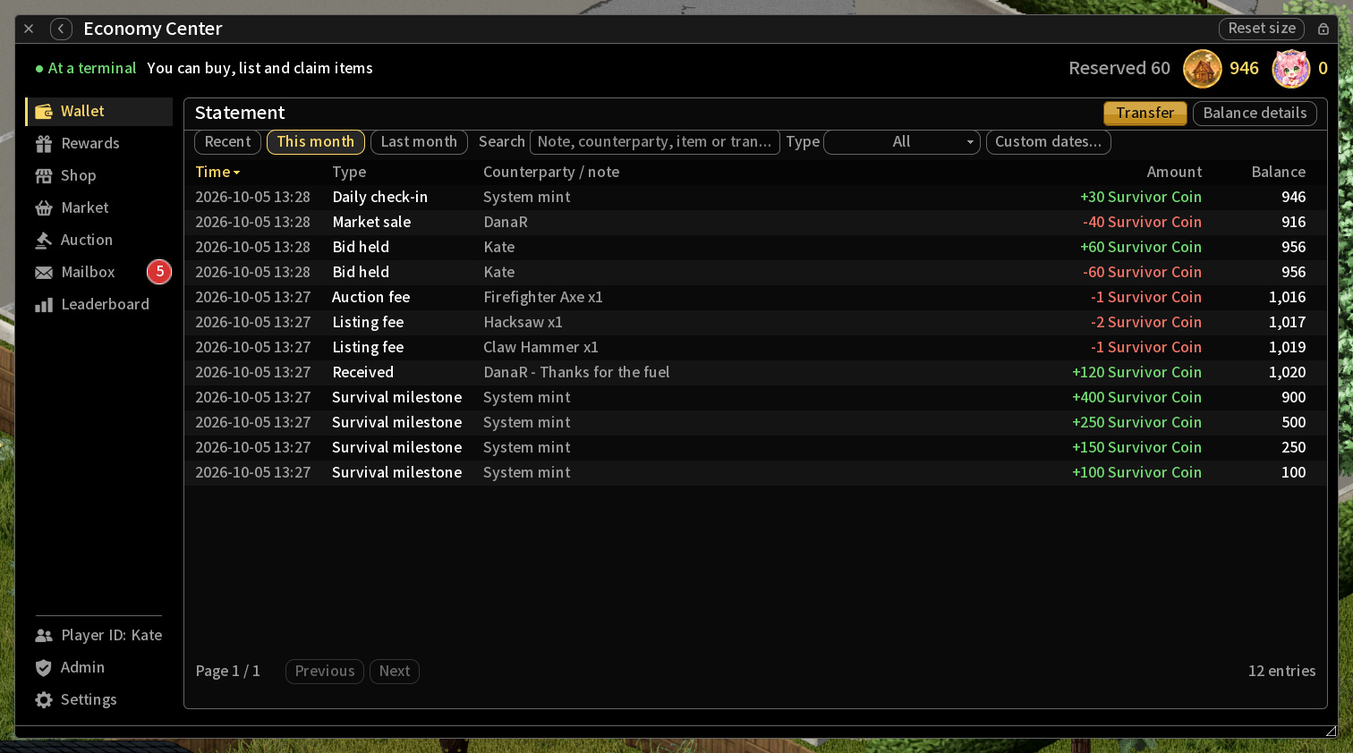
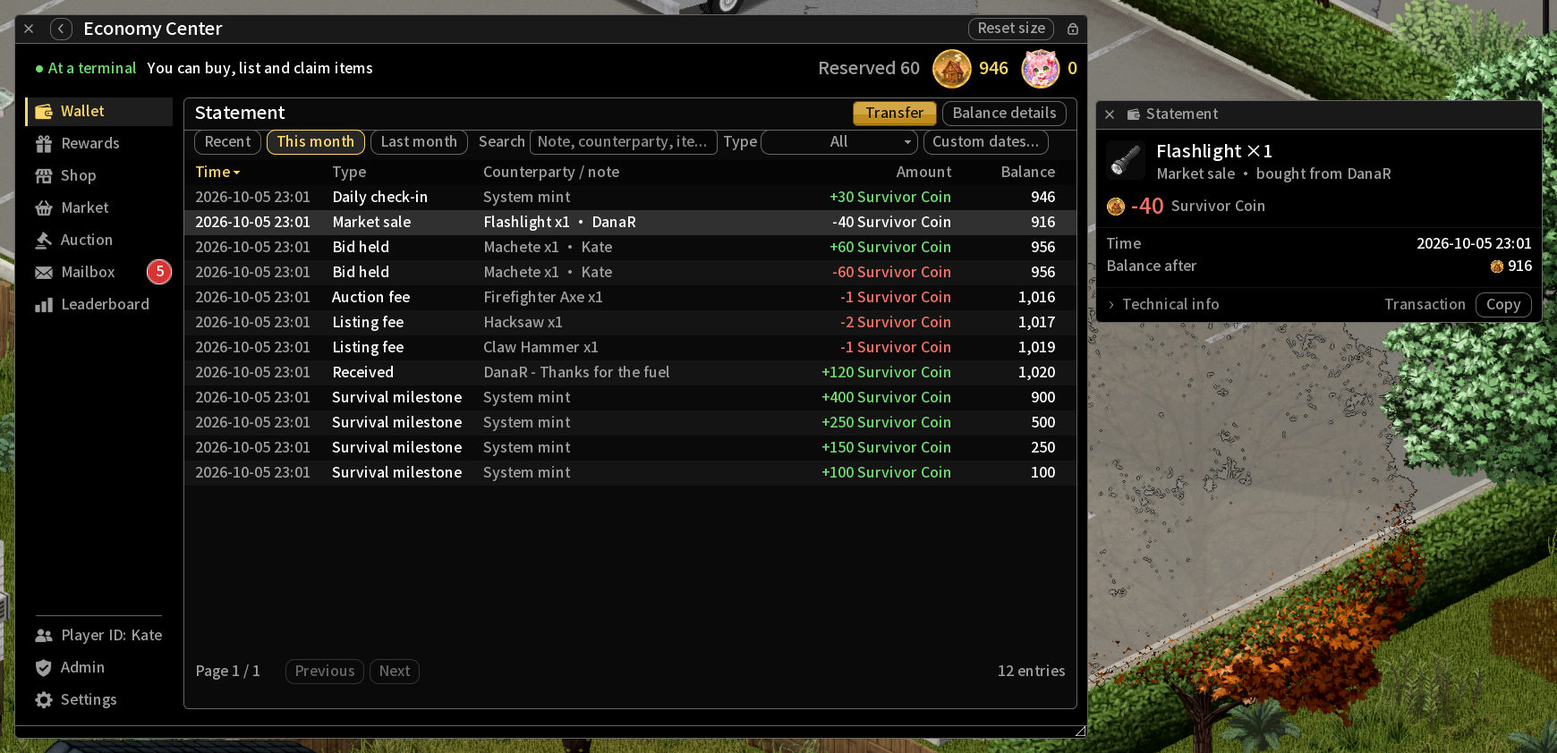
發布 42.21.0-0.10.0
本版內容：明細卡、管理台報表與總覽近 7 天、上架行情、錢包本月收支、金流合計列與金流明細卡（7e7fbce），報表座標軸刻度修正（ef25330），以及管理員進服後右鍵物品報錯、MOD 名稱檔尾逗號、換季稽核欄位翻譯三個修正（12bfb38）。

發版檔案：
- mod.info modversion 42.21.0-0.9.0 -> 42.21.0-0.10.0（versionMin 不變；新程式用到的 UI 框架 API 都在 rev 11 以內）。
- CHANGELOG [Unreleased] 歸版；STEAM_CHANGELOG.md 由 gen_steam_changelog.py 產稿後整理成 12 條玩家看得懂的重點。
- 簡介三語（繁中稿同時給簡中槽）在「主要功能」加一行管理台報表，workshop.txt 重建。
- 四篇說明串稿：玩家說明補明細卡、對帳單寫出物品、本月收支、上架行情、拍賣卡與規則條列；服主說明補總覽近 7 天與新的「報表與金流」段（資料來源、更新頻率、玩家行情只讀快取、金流合計列）。
- Workshop 介面預覽圖：01 錢包（附明細卡）、08 管理台總覽（近 7 天）、09 商店編輯器（側欄多了報表）重拍，新增 12 管理台報表、13 拍賣明細卡；英文、繁中各 13 張，皆 ≤275 KB。同名換內容，上傳要用 --force。

閘門：verify_mod 21/21（smoke 2193）；test_entitlement_client 126。實機：reports-ui-mp、四語巡覽與 run_sweep 1005r／1005s／1005t 見 7e7fbce；預覽圖兩輪 econ-wshot2-{ch,en}-c PASS。

diff --git a/STEAM_CHANGELOG.md b/STEAM_CHANGELOG.md
@@ -1,39 +1,28 @@
-[h1]Minidoracat Economy for B42 42.21.0-0.9.0[/h1]
+[h1]Minidoracat Economy for B42 42.21.0-0.10.0[/h1]
 [i]2026-10-05[/i]
 
 [h3]✨ 新增[/h3]
 [list]
-[*] [b]帶我去最近的終端[/b]：不在終端旁時，經濟中心頂端會寫出最近的終端或 ATM 在哪個方向、還有幾格；按「帶我去」會出現金色方向箭頭，走到旁邊自動結束。被「不在終端旁」擋下時，訊息也會附上方位。
-[*] [b]地圖標出終端與 ATM[/b]：服主開啟「原生 ATM 可作為終端」時，你走過區域裡的原版 ATM 也會列入帶路目標。有安裝 MiniMap 時，小地圖與世界地圖會標出終端與 ATM；沒有時，導航目標會在原版地圖上以圓圈標出。
-[*] [b]入口移進家族工具列[/b]：經濟中心改成家族工具列裡的錢幣圖示，和小地圖、公告欄等入口排在一起；信箱有待領物品時會標出件數。
+[*] [b]明細卡[/b]：點對帳單、商店、市場、拍賣、信箱或紀錄的任一列，會打開一張卡片：物品圖示、放大的金額（收入綠、支出紅）、剩餘時間等標籤，耐久與銳利度畫成狀態條。購買、出價、領取、取消刊登的按鈕就在卡上；物品代碼與交易編號收在「技術資訊」裡。
+[*] [b]上架時看得到行情[/b]：定價時會顯示同一物品近 30 天成交幾筆，以及每件的中位數與最低到最高價。
+[*] [b]本月收支[/b]：錢包的「餘額詳情」依類型列出本月的收入與支出。
+[*] [b]管理台「報表」[/b]（服主用）：近 7 天、30 天、本季或自訂期間的流入、流出、貨幣總量、財富分布、各來源佔比、熱門物品與成交價、商店銷量；點某一天、某個來源或物品，直接打開對應的金流。
+[*] [b]管理台總覽「近 7 天」[/b]：每日發行與回收的長條圖，加上 7 天合計。
 [/list]
 
-[h3]🔄 經濟中心改版[/h3]
+[h3]🔄 變更[/h3]
 [list]
-[*] [b]頂端一列看位置與餘額[/b]：左邊是你在不在終端旁，右邊是餘額；獎勵可以領時，導覽列會出現金色提示。
-[*] [b]各頁說明縮成一行[/b]：費率、限購、收購條件等規則收進右上的「規則」按鈕，原文一字不少；清單空著時會告訴你下一步。
-[*] [b]錢包[/b]：篩選整合成一列，點「時間」「金額」欄位標題就能排序，鍵盤與手把也能用。
-[*] [b]獎勵[/b]：每日在線獎勵改成進度條，生存里程碑改成一條軌道，一眼看出還差幾天。
-[*] [b]排行榜[/b]：新增「我的名次」卡片，可以直接跳到自己的名次。
-[*] [b]商店與買賣視窗[/b]：每一列直接有購買、出售鈕；視窗只留數量、總價與交易後餘額，確認鈕直接寫出結果，例如「購買 12 倖存幣」。
-[*] [b]信箱、市場與拍賣[/b]：信箱標出待領與容量；市場與拍賣改成分頁，物品與賣家合併成一個搜尋框，到期時間顯示還剩多久。
-[*] [b]錯誤訊息會說下一步怎麼做[/b]：例如「先取消一筆刊登，或等它售出」「請等每日重置」。
-[*] [b]通知不再擋住餘額與按鈕[/b]，停用的按鈕也更好分辨。
-[/list]
-
-[h3]🛠 管理台[/h3]
-[list]
-[*] [b]預設開在「總覽」[/b]：側欄分成六組；「需要處理」只列出有狀況的項目（例如待對帳資產、身分衝突），每項一個按鈕直接前往處理。
-[*] [b]各頁精簡好讀[/b]：系統、貨幣、設定、資產對帳、賽季、商店、身分、金流等頁重新排版，長說明收進「說明」；強制下架、開始下一季這類操作改成紅色按鈕，仍需確認。
+[*] [b]「規則」改成條列[/b]：每條規則一個小標加一行說明，費率、上限、重置倒數做成小標籤，收購條件用勾叉列出。
+[*] [b]對帳單寫出買了什麼[/b]：市場與拍賣成交會寫「手電筒 x1 · 賣家」，不再只有對方的名字。
+[*] [b]管理台金流[/b]：多了合計列（筆數、流入、流出、玩家間成交額，不受清單 200 筆的限制），金額依方向上色並加正負號，每筆寫出付款方、收款方與手續費；點開的明細列出每一筆分錄。
+[*] [b]管理台各頁的明細也改成卡片[/b]，技術資訊預設展開。
 [/list]
 
 [h3]🔧 修正[/h3]
 [list]
-[*] [b]換行更自然[/b]：中文與日文不再在數字或「ATM」前後提早換行，英文不再把單字切成兩半。
-[*] [b]不再出現物品內部代碼[/b]：購買與建立拍賣的規格、管理台的分類改顯示翻譯名稱。
-[*] [b]第一季不再被誤標成「此季紀錄不完整」[/b]。
-[*] [b]不再截字或卡住[/b]：轉帳確認鈕、管理台的收據與金流分頁不再截字；身分未確認時，錢包不再一直停在「讀取中」。
-[*] [b]簡體中文用詞[/b]：改用「账号、转账、对账」與「身份、审计、记录」。
+[*] [b]管理員進服後先在物品上按右鍵會報錯[/b]：還沒打開過經濟視窗就右鍵物品時會跳錯誤，選單也少了「加入商店」「加入白名單」；現在第一次右鍵就正常（0.5.0 起的版本都有這個問題）。
+[*] [b]有些 MOD 的英文物品名稱讀不到[/b]：名稱檔最後多一個逗號時，管理台搜尋會漏掉，並在錯誤紀錄多記一筆；現在照遊戲的讀法讀進來。
+[*] [b]換季的稽核紀錄[/b]：「變更」欄改寫成「賽季編號：3 改為 4」，不再寫「未知」。
 [/list]
 
-伺服器與客戶端都要更新並重新啟動。工具列入口與錢包的新篩選需要同時更新 UI 框架；UI 框架是舊版時，經濟中心照舊可用，入口維持原本的浮動按鈕。
+報表的依類型統計從這次更新後才開始累計，更新前的日子只會顯示發行與回收合計。伺服器與客戶端都要更新並重新啟動。

diff --git a/STEAM_DISCUSSION_player.md b/STEAM_DISCUSSION_player.md
@@ -19,7 +19,8 @@
 [h3]錢包[/h3]
 [list]
 [*] [b]雙貨幣[/b]：倖存幣與貓幣分開顯示可用與保留金額，伺服器可自訂貨幣名稱與圖示。
-[*] [b]對帳單[/b]：篩選集中在一列（期間、關鍵字、類型、自訂日期），點「時間」「金額」欄位標題可排序；轉帳手續費與成交時扣的成交稅寫在說明欄後面。「餘額詳情」可完整閱讀與複製。
+[*] [b]對帳單[/b]：篩選集中在一列（期間、關鍵字、類型、自訂日期），點「時間」「金額」欄位標題可排序；轉帳手續費與成交時扣的成交稅寫在說明欄後面；市場與拍賣成交會寫出買了什麼，例如「手電筒 x1 · 賣家」。點任一筆會打開這筆的明細卡：物品、金額（收入綠、支出紅）、時間與交易後餘額，交易編號收在「技術資訊」。
+[*] [b]餘額詳情與本月收支[/b]：「餘額詳情」可完整閱讀與複製，下方依類型列出本月的收入與支出合計與比例。本月收支只算已讀進來的本月對帳單，以可用餘額計：出價保留算支出，被超過退回時算收入。
 [*] [b]玩家 ID[/b]：左側導覽列底部顯示你的登入帳號（不是角色名），身分未確認時是紅色；點一下可開啟完整帳號並複製，找管理員協助時提供給他。伺服器把同一個 Steam 帳號的多個登入名合併後，會顯示成「主帳號（登入：目前的登入名）」，錢包與紀錄都是同一份。
 [/list]
 
@@ -55,7 +56,8 @@
 [*] [b]直接拖進來[/b]：把背包、袋子、容器或地上的物品拖到經濟中心的市場、拍賣或商店頁，會打開上架、建立拍賣或出售視窗並選好那件物品；拖到視窗上時會先說明放開後會發生什麼或為什麼不能放。不在主背包最上層的物品會先用原版動作拿過來。
 [*] [b]物品右鍵「經濟系統」[/b]：有「上架到市場」「開拍賣」，商店有收購的物品還有「賣給系統商店」；不能用的選項會變灰，滑鼠停上去會說明原因。
 [*] [b]重物[/b]：發電機這類只能雙手拿的物品，雙手拿著就能上架、拍賣或賣回商店；地上立著的發電機右鍵也有同一組選項，會先用原版動作拿到雙手。
-[*] 列表直接顯示物品狀態重點（耐久、刀頭、銳利度、子彈、電量、食物新鮮度、衣物破洞等），點開詳情可看上架時的完整狀態。
+[*] 列表直接顯示物品狀態重點（耐久、刀頭、銳利度、子彈、電量、食物新鮮度、衣物破洞等）；點一列會打開明細卡，耐久、銳利度等畫成狀態條，購買或取消刊登的按鈕就在卡上。
+[*] [b]行情[/b]：上架或建立拍賣時，定價欄下方會寫出同一物品近 30 天成交幾筆、每件的中位數與最低到最高價。伺服器開服約 3 分鐘後算好、之後每 6 小時更新；還沒算好時寫「行情資料準備中」，會自己再問。
 [*] 成交稅由賣家負擔，刊登費不退；到期未售出自動退回信箱。
 [*] 物品與賣家共用一個搜尋框：輸入時會同時建議賣家，選了賣家會顯示可以移除的「賣家：名字」，只看該賣家的刊登。
 [*] 成交稅與刊登費顯示在市場標題旁，完整規則按右上的「規則」。
@@ -65,7 +67,7 @@
 [list]
 [*] 設定起標價與時長（預設範圍 6–72 小時，可由服主調整）。
 [*] 出價金額先保留，被超過時釋回；結標後物品交給得標者，賣家收到扣稅後的金額，無人出價則退件。
-[*] 每場都能查出價紀錄；「我的拍賣」「我的出價」分成兩段並標出數量。
+[*] 每場都能查出價紀錄；「我的拍賣」「我的出價」分成兩段並標出數量。點一場會打開明細卡：是否領先、剩餘時間、下一口至少多少、你保留中的金額，出價（或加價）與「紀錄」按鈕就在卡上。
 [/list]
 
 [h3]信箱[/h3]
@@ -94,8 +96,8 @@
 
 [h3]介面與操作[/h3]
 [list]
-[*] 經濟中心閱讀與操作分開：點列只開浮動詳情（可移動、縮放、複製），不會誤觸購買、取消或出價。
-[*] 各頁說明縮成一行，費率、限購、重置時間與計算方式等完整規則都在各頁右上的「規則」。
+[*] 點列會打開浮動的明細卡（可移動、可複製，高度跟著內容）；只點列本身不會誤觸購買、取消或出價，要操作請按列上或卡上的按鈕。物品代碼與編號收在卡底的「技術資訊」。
+[*] 各頁說明縮成一行，費率、限購、重置時間與計算方式等完整規則都在各頁右上的「規則」，每條規則一個小標加一行說明。
 [*] 全頁支援鍵盤（Tab 切換區域、方向鍵選列、Enter 開詳情、Esc 關閉）與手把（A 確認、B 返回、LB／RB 切換分頁）。
 [*] 視窗位置、大小與偏好都會記住。
 [/list]

diff --git a/STEAM_DISCUSSION_player_EN.md b/STEAM_DISCUSSION_player_EN.md
@@ -19,7 +19,8 @@ Server installation, permissions and external tools: [url=https://steamcommunity
 [h3]Wallet[/h3]
 [list]
 [*] [b]Two currencies[/b]: Survivor Coin and Cat Coin show available and reserved amounts; the server can rename them and change icons.
-[*] [b]Statement[/b]: one filter row (period, keyword, type, custom dates); click Time or Amount to sort. Fees and sales tax follow the note.
+[*] [b]Statement[/b]: one filter row (period, keyword, type, custom dates); click Time or Amount to sort. Fees and sales tax follow the note, and market and auction trades name the item ("Flashlight x1 · seller"). Click any line for its card: item, amount (green in, red out), time and balance after; the transaction ID sits under Technical info.
+[*] [b]Balance details and This month[/b]: Balance details can be read and copied in full, with This month (income and spending by type) below. It counts the statement lines already loaded, on the available balance: a bid hold counts as spending, its refund as income.
 [*] [b]Player ID[/b]: your login account (not your character name) sits at the bottom of the navigation rail, red while unverified; click it to copy it for an admin. Merged logins of one Steam account show "main account (login ...)" and share one wallet.
 [/list]
 
@@ -54,7 +55,8 @@ Server installation, permissions and external tools: [url=https://steamcommunity
 [*] [b]Drag items in[/b]: drag an item from your bag, a container or the floor onto the market, auction or shop page of the Economy Center to open the listing, auction or sell window with that item already picked. While you drag, the window says what will happen or why it cannot take the item. Items outside the top level of your main inventory are moved there first with the vanilla action.
 [*] [b]Item right-click "Economy"[/b]: "List on the market", "Start an auction", and "Sell to the shop" for items the shop buys back. Unavailable entries are greyed out and explain why on hover.
 [*] [b]Heavy items[/b] such as generators can be listed, auctioned or sold while held in both hands; a standing generator's right-click menu has the same entries and picks it up with the vanilla action first.
-[*] Rows show the item's key state (condition, blade head, sharpness, ammo, charge, freshness, clothing holes…); details show the full state at listing time.
+[*] Rows show the item's key state (condition, blade head, sharpness, ammo, charge, freshness, clothing holes…); click a row for its card, with condition and sharpness as bars and the Buy or Cancel listing button on the card.
+[*] [b]Market price[/b]: when you list or start an auction, the price step shows how many sold in the last 30 days, the median per piece and the lowest to highest price. The server works this out about 3 minutes after it starts and every 6 hours after; until then it reads "Market price data is being prepared" and asks again by itself.
 [*] The seller pays the sales tax; listing fees are not refunded; unsold listings return to your mailbox.
 [*] One search box finds items and suggests sellers (a removable "Seller: name" filter). Tax and fee sit beside the title; Rules has the full text.
 [/list]
@@ -63,6 +65,7 @@ Server installation, permissions and external tools: [url=https://steamcommunity
 [list]
 [*] Choose a starting price and duration (6-72 hours by default).
 [*] Bids reserve funds and being outbid releases them. The winner gets the items, the seller gets the price after tax, and unsold items return. Every auction has a bid history; My auctions and My bids are listed separately.
+[*] Click an auction for its card: whether you lead, time left, the next minimum bid and what you hold, with the Bid (or Raise) and History buttons on the card.
 [/list]
 
 [h3]Mailbox[/h3]
@@ -90,7 +93,8 @@ Server installation, permissions and external tools: [url=https://steamcommunity
 
 [h3]Interface and controls[/h3]
 [list]
-[*] Clicking a row only opens a floating detail view; it never buys, cancels or bids. Full rules sit under each page's Rules button.
+[*] Clicking a row opens a floating card (movable, copyable, as tall as its content); the row itself never buys, cancels or bids, so use the buttons on the row or the card. Item codes and IDs sit under Technical info at the bottom of the card.
+[*] Full rules sit under each page's Rules button, one short heading and one line per rule.
 [*] Keyboard (Tab, arrows, Enter, Esc) and controller (A, B, LB/RB) work on every page.
 [/list]
 

diff --git a/STEAM_DISCUSSION_admin.md b/STEAM_DISCUSSION_admin.md
@@ -18,7 +18,15 @@
 [/olist]
 
 [h2]🧭 管理台總覽[/h2]
-「總覽」頁的「需要處理」只列出有狀況的項目（待對帳資產、身分衝突與新警示、存檔確認、帳本、商店目錄、白名單、暫停的刊登與拍賣、守恆差額），每項一個按鈕直接前往處理的頁面；沒有狀況時只顯示「目前沒有需要處理的事」。側欄分成總覽、玩家、市場與商店、金流與稽核、貨幣與整合、伺服器六組，「資產對帳」與「身分」會用紅色數字標出待處理的數量。下方「貨幣概況」列出各幣的玩家總持有、保留款、今日發行、守恆差額與持有帳號，完整數字在「完整供給表」。各頁的長說明收進「說明」。
+「總覽」頁的「需要處理」只列出有狀況的項目（待對帳資產、身分衝突與新警示、存檔確認、帳本、商店目錄、白名單、暫停的刊登與拍賣、守恆差額），每項一個按鈕直接前往處理的頁面；沒有狀況時只顯示「目前沒有需要處理的事」。側欄分成總覽、玩家、市場與商店、金流與稽核、貨幣與整合、伺服器六組，「資產對帳」與「身分」會用紅色數字標出待處理的數量。「近 7 天」畫出每日發行（簽到、里程碑、收購、其他）與回收的長條和淨額線，右邊是 7 天發行、回收與淨增加；它只看系統發行統計，不含模組整合、Discord 存入與管理員調整，點某一天打開當天金流，「看完整報表」到報表頁。下方「貨幣概況」列出各幣的玩家總持有、保留款、今日發行、守恆差額與持有帳號，完整數字在「完整供給表」。各頁的長說明收進「說明」。
+
+[h2]📊 報表與金流[/h2]
+[list]
+[*] [b]報表[/b]（金流與稽核 → 報表，唯讀角色也能看）：選近 7 天、30 天、本季或自訂期間（最多 60 天，一天以獎勵日計）與幣別。上方是流入、流出、淨增加、玩家間成交額與活躍交易人數，各附走勢並和前一段同長度期間比較；下面依序是每日流入流出長條圖（依來源分色、畫出淨額線）、貨幣總量走勢、財富分布、依來源合計、熱門物品（成交筆數、金額、每件中位數、價格區間、14 天走勢）與商店銷量（售出份數、營收、賣完的天數、收購額度用了多少）。點長條、來源或物品，會打開對應的金流。
+[*] [b]資料從哪來[/b]：每日統計和原本的發行統計存在同一份每日紀錄（保留 60 天，只有匿名數字）；依類型的分類從 0.10.0 才開始累計，更新前的日子只顯示發行與回收合計，今天與記錄不完整的日子畫斜線。熱門物品、成交價與活躍交易人數由伺服器讀近 30 天的事件檔算出，開服約 3 分鐘後產生、之後每 6 小時更新，也可以按「重新產生」（一分鐘最多一次）；結果只放在記憶體，重啟後重算。
+[*] [b]玩家看到的行情[/b]：玩家上架時看到的近 30 天行情只讀上面那份結果，玩家的操作不會讓伺服器重新計算。
+[*] [b]金流[/b]：上方合計列涵蓋全部符合條件的紀錄（不受清單 200 筆限制，已回滾的不算），每筆金額依方向上色並加正負號，第二行寫「付款方 -> 收款方 · 手續費或成交稅」。點開的明細卡列出每一筆分錄與前後餘額，可以只看某個帳號或某個物品；管理台各頁明細卡的技術資訊預設展開。
+[/list]
 
 [h2]⚙ 伺服器設定[/h2]
 [list]

diff --git a/STEAM_DISCUSSION_admin_EN.md b/STEAM_DISCUSSION_admin_EN.md
@@ -18,7 +18,15 @@ Player features and FAQ: [url=https://steamcommunity.com/workshop/filedetails/di
 [/olist]
 
 [h2]🧭 Overview[/h2]
-Needs attention lists only what has a problem (assets to reconcile, identity conflicts and new alerts, save confirmation, ledgers, shop catalog, whitelist, held listings and auctions, conservation gaps), each with a button to the page that fixes it; otherwise it reads "Nothing needs attention right now". The sidebar has six groups, and Reconciliation and Identity show red counts. Currencies at a glance lists each currency's holdings, reserves, today's issuance, conservation gap and holders; the Full supply table has the rest.
+Needs attention lists only what has a problem (assets to reconcile, identity conflicts and new alerts, save confirmation, ledgers, shop catalog, whitelist, held listings and auctions, conservation gaps), each with a button to the page that fixes it; otherwise it reads "Nothing needs attention right now". The sidebar has six groups, and Reconciliation and Identity show red counts. Last 7 days charts daily issuance (check-ins, milestones, buyback, other) and removal with a net line, plus the 7-day totals; it covers system issuance only (not integrations, Discord deposits or admin adjustments). Click a day for that day's transactions, or Full report for Reports. Currencies at a glance lists each currency's holdings, reserves, today's issuance, conservation gap and holders; the Full supply table has the rest.
+
+[h2]📊 Reports and transactions[/h2]
+[list]
+[*] [b]Reports[/b] (Money and audit - Reports, read-only roles included): pick 7 days, 30 days, this season or a custom range (up to 60 days, counted in reward days) and a currency. Inflow, outflow, net change, player trade volume and active traders come first, each with a trend and a comparison with the previous period of the same length; then daily inflow and outflow by source with a net line, money supply, wealth distribution, totals by source, top items (trades, value, median per piece, price range, 14-day trend) and shop sales (shares sold, revenue, days sold out, buyback cap used). Clicking a bar, a source or an item opens the matching transactions.
+[*] [b]Where the numbers come from[/b]: the daily figures share the existing daily record (kept 60 days, anonymous numbers only). The breakdown by type starts with 0.10.0, so earlier days show only issuance and removal totals; today and incomplete days are hatched. Top items, prices and active traders come from the last 30 days of event files, worked out about 3 minutes after the server starts and every 6 hours after, or on Regenerate (at most once a minute). They live in memory and are rebuilt after a restart.
+[*] [b]Players' market price[/b]: the 30-day price players see when listing only reads that result; nothing a player does makes the server recount.
+[*] [b]Transactions[/b]: the totals row covers every matching record (not just the 200 listed, rolled-back ones excluded); amounts are coloured and signed by direction, and the second line reads "payer -> payee · fee or tax". The record card lists every posting with balances before and after, with shortcuts to one account's or one item's transactions. Admin record cards open with Technical info expanded.
+[/list]
 
 [h2]⚙ Server settings[/h2]
 [list]

diff --git a/CHANGELOG.md b/CHANGELOG.md
@@ -12,7 +12,7 @@
 
 格式基於 [Keep a Changelog](https://keepachangelog.com/zh-TW/1.1.0/)，版本號遵循 `{PZ版本}-{主版本}.{次版本}.{修訂}` 格式。
 
-## [Unreleased]
+## [42.21.0-0.10.0] - 2026-10-05
 
 ### 新增
 
@@ -39,7 +39,7 @@
   - 視窗高度跟著內容走，不再開一個大空框。
 - **各頁「規則」改成條列**：每條規則一個小標加一行說明，費率、上限、重置倒數做成小標籤，收購條件改用勾叉列出。
 - **對帳單的市場與拍賣成交會寫出買了什麼**，例如「手電筒 x1 · 賣家名稱」，以前只寫對方的名字。
-- **金流頁加上合計列**：清單仍只列最新 200 筆，合計列則涵蓋全部符合條件的紀錄，列出筆數、流入、流出、玩家之間的成交額，以及各來源的比例。每筆金額依方向上色並加正負號：系統發行是綠色「+」，系統回收是紅色「-」，玩家之間的成交另有圖示。第二行改寫成「付款方 -> 收款方 · 成交稅」，時間獨立一欄。金流明細卡列出每一筆分錄的增減與前後餘額，並提供「只看這個帳號」「只看這個物品」。
+- **金流頁加上合計列**：清單仍只列最新 200 筆，合計列則涵蓋全部符合條件的紀錄，列出筆數、流入、流出、玩家之間的成交額，以及各來源的比例。每筆金額依方向上色並加正負號：系統發行是綠色「+」，系統回收是紅色「-」，玩家之間的成交另有圖示。第二行改寫成「付款方 -> 收款方 · 成交稅」，時間移到右邊。金流明細卡列出每一筆分錄的增減與前後餘額，並提供「只看這個帳號」「只看這個物品」。
 
 > 技術要點：每日統計新增依類型的筆數與金額、商店各商品的銷售、當日第一筆交易時的貨幣總量，和原本的發行統計存在同一份每日紀錄（保留 60 天，只有匿名數字）；新增的分類從更新後才開始累計，更新前的日子在報表上只會顯示發行與回收合計。熱門物品、行情與活躍交易人數由伺服器定時讀取近 30 天的事件檔計算，結果只放在記憶體；查行情只讀這份結果，不會讓伺服器重新計算。
 

diff --git a/STEAM_DESCRIPTION_EN.md b/STEAM_DESCRIPTION_EN.md
@@ -29,6 +29,7 @@ An economy system for Build 42 [b]dedicated multiplayer servers[/b]: earn Surviv
 [*] [b]Mailbox[/b]: purchases, wins and returns arrive here and survive your character's death
 [*] [b]Rewards and seasons[/b]: daily online rewards, survival milestones, holdings and survival leaderboards
 [*] [b]Market radio[/b]: tune a radio to a trade station's market broadcast (server option)
+[*] [b]Admin reports[/b]: inflow and outflow, money supply, top items and shop sales on one page
 [*] [b]Paid slots for other mods[/b]: buy or rent extra slots in supporting mods with economy currency
 [/list]
 📖 [b]Feature details and FAQ:[/b] [url=https://steamcommunity.com/workshop/filedetails/discussion/3801482125/586187095760095779/]Economy Player Guide[/url]

diff --git a/STEAM_DESCRIPTION.md b/STEAM_DESCRIPTION.md
@@ -29,6 +29,7 @@ Build 42 [b]多人專用伺服器[/b]的經濟系統：賺取倖存幣，在 ATM
 [*] [b]信箱[/b]：購買、得標、退件都寄到這裡，角色死亡也不會清掉
 [*] [b]每日獎勵與賽季[/b]：在線獎勵、生存里程碑、持有榜與生存榜
 [*] [b]市場電台[/b]：用收音機收聽交易站的行情廣播（伺服器可選）
+[*] [b]管理台報表[/b]：流入流出、貨幣總量、熱門物品與商店銷量，一頁看完
 [*] [b]其他 MOD 的付費名額[/b]：用經濟貨幣買斷或租用支援 MOD 的額外名額
 [/list]
 📖 [b]每項功能的細節與常見問題：[/b][url=https://steamcommunity.com/workshop/filedetails/discussion/3801482125/586187095760095761/]Economy 玩家說明[/url]
